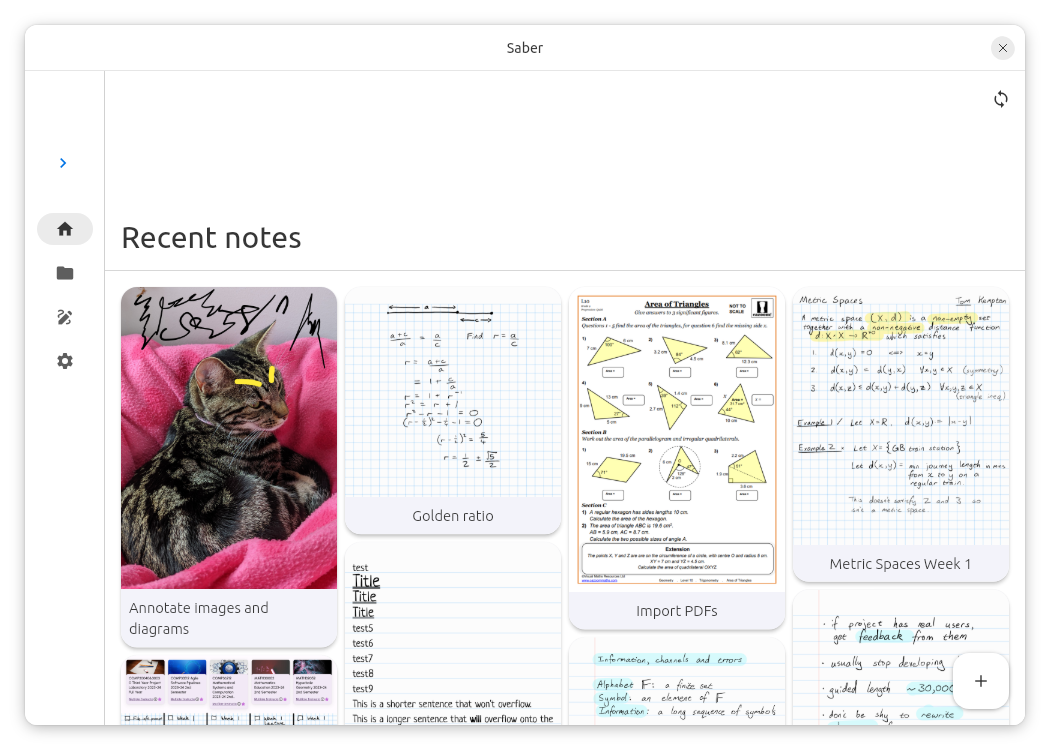
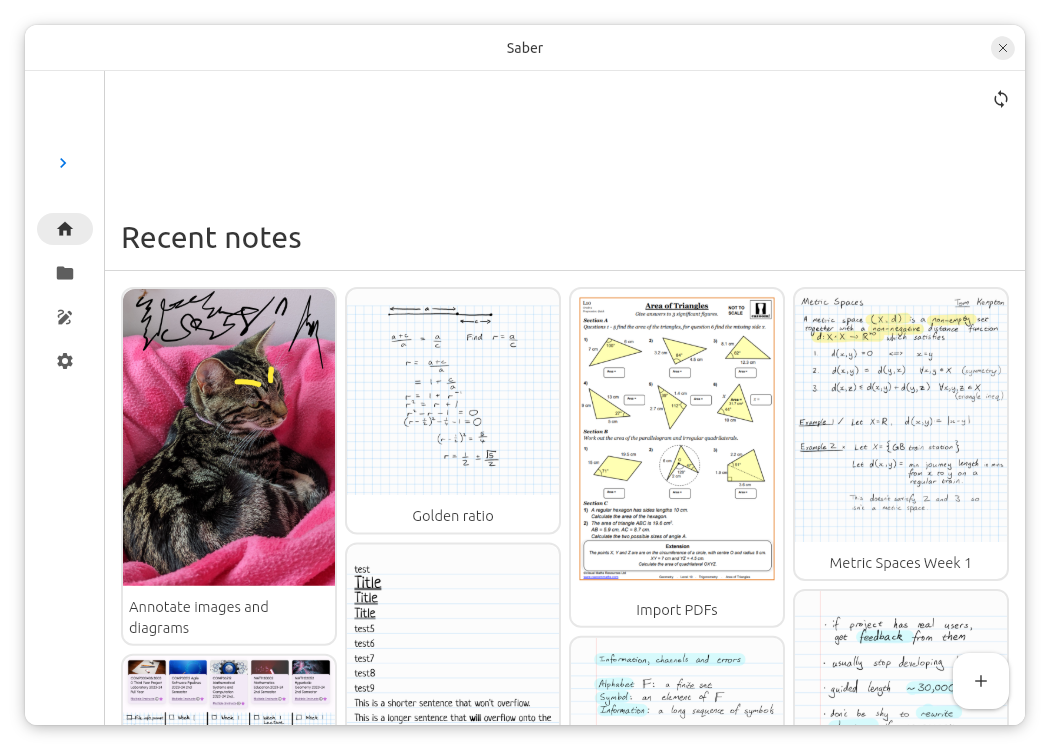
tweak: modernise note cards

diff --git a/lib/components/home/preview_card.dart b/lib/components/home/preview_card.dart
@@ -13,6 +13,7 @@ import 'package:saber/data/prefs.dart';
 import 'package:saber/data/routes.dart';
 import 'package:saber/i18n/strings.g.dart';
 import 'package:saber/pages/editor/editor.dart';
+import 'package:yaru/yaru.dart';
 
 class PreviewCard extends StatefulWidget {
   PreviewCard({
@@ -105,89 +106,85 @@ class _PreviewCardState extends State<PreviewCard> {
         onTap: widget.isAnythingSelected ? _toggleCardSelection : null,
         onSecondaryTap: _toggleCardSelection,
         onLongPress: _toggleCardSelection,
-        child: ColoredBox(
-          color: colorScheme.surfaceContainerLow,
-          child: Stack(
-            children: [
-              Column(
-                mainAxisSize: .min,
-                children: [
-                  Stack(
-                    children: [
-                      AnimatedBuilder(
-                        animation: thumbnail,
-                        builder: (context, _) => AnimatedSwitcher(
-                          duration: const Duration(milliseconds: 300),
-                          child: ConstrainedBox(
-                            key: ValueKey(thumbnail.updateCount),
-                            constraints: const BoxConstraints(minHeight: 100),
-                            child: InvertWidget(
-                              invert: invert,
-                              child: thumbnail.doesImageExist
-                                  ? Image(image: thumbnail.image!)
-                                  : const _FallbackThumbnail(),
-                            ),
+        child: Column(
+          mainAxisSize: .min,
+          children: [
+            Stack(
+              children: [
+                ListenableBuilder(
+                  listenable: thumbnail,
+                  builder: (context, _) => AnimatedSwitcher(
+                    duration: const Duration(milliseconds: 300),
+                    child: ConstrainedBox(
+                      key: ValueKey(thumbnail.updateCount),
+                      constraints: const BoxConstraints(minHeight: 100),
+                      child: Padding(
+                        padding: const EdgeInsets.all(kYaruFocusBorderWidth),
+                        child: ClipRRect(
+                          borderRadius: const .only(
+                            topLeft: .circular(kYaruContainerRadius),
+                            topRight: .circular(kYaruContainerRadius),
+                          ),
+                          child: InvertWidget(
+                            invert: invert,
+                            child: thumbnail.doesImageExist
+                                ? Image(image: thumbnail.image!)
+                                : const _FallbackThumbnail(),
                           ),
                         ),
-                      ),
-                      Positioned.fill(
-                        left: -1,
-                        top: -1,
-                        right: -1,
-                        bottom: -1,
-                        child: ValueListenableBuilder(
-                          valueListenable: expanded,
-                          builder: (context, expanded, child) =>
-                              AnimatedOpacity(
-                                opacity: expanded ? 1 : 0,
-                                duration: const Duration(milliseconds: 200),
-                                child: IgnorePointer(
-                                  ignoring: !expanded,
-                                  child: child!,
-                                ),
-                              ),
-                          child: GestureDetector(
-                            onTap: _toggleCardSelection,
-                            child: DecoratedBox(
-                              decoration: BoxDecoration(
-                                gradient: LinearGradient(
-                                  begin: .topCenter,
-                                  end: .bottomCenter,
-                                  colors: [
-                                    colorScheme.surface.withValues(alpha: 0.2),
-                                    colorScheme.surface.withValues(alpha: 0.8),
-                                    colorScheme.surface.withValues(alpha: 1),
-                                  ],
-                                ),
-                              ),
-                              child: ColoredBox(
-                                color: colorScheme.primary.withValues(
-                                  alpha: 0.05,
-                                ),
-                              ),
-                            ),
-                          ),
-                        ),
-                      ),
-                    ],
-                  ),
-                  Flexible(
-                    child: Padding(
-                      padding: const .all(8),
-                      child: Text(
-                        widget.filePath.substring(
-                          widget.filePath.lastIndexOf('/') + 1,
-                        ),
-                        maxLines: 2,
-                        overflow: .ellipsis,
                       ),
                     ),
                   ),
-                ],
+                ),
+                Positioned.fill(
+                  left: -1,
+                  top: -1,
+                  right: -1,
+                  bottom: -1,
+                  child: ValueListenableBuilder(
+                    valueListenable: expanded,
+                    builder: (context, expanded, child) => AnimatedOpacity(
+                      opacity: expanded ? 1 : 0,
+                      duration: const Duration(milliseconds: 200),
+                      child: IgnorePointer(ignoring: !expanded, child: child!),
+                    ),
+                    child: GestureDetector(
+                      onTap: _toggleCardSelection,
+                      child: DecoratedBox(
+                        decoration: BoxDecoration(
+                          gradient: LinearGradient(
+                            begin: .topCenter,
+                            end: .bottomCenter,
+                            colors: [
+                              colorScheme.surface.withValues(alpha: 0.2),
+                              colorScheme.surface.withValues(alpha: 0.8),
+                              colorScheme.surface.withValues(alpha: 1),
+                            ],
+                          ),
+                        ),
+                        child: ColoredBox(
+                          color: colorScheme.primary.withValues(alpha: 0.05),
+                        ),
+                      ),
+                    ),
+                  ),
+                ),
+                SyncIndicator(filePath: widget.filePath),
+              ],
+            ),
+            Flexible(
+              child: Padding(
+                padding: const .all(8),
+                child: Text(
+                  widget.filePath.substring(
+                    widget.filePath.lastIndexOf('/') + 1,
+                  ),
+                  maxLines: 2,
+                  overflow: .ellipsis,
+                ),
               ),
-              SyncIndicator(filePath: widget.filePath),
-            ],
-          ),
+            ),
+          ],
         ),
       ),
     );
@@ -196,9 +193,18 @@ class _PreviewCardState extends State<PreviewCard> {
       valueListenable: expanded,
       builder: (context, expanded, _) {
         return OpenContainer(
+          clipBehavior: Clip.none,
           closedColor: colorScheme.surface,
-          closedShape: RoundedRectangleBorder(borderRadius: .circular(16)),
-          closedElevation: expanded ? 4 : 1,
+          closedShape: RoundedRectangleBorder(
+            side: BorderSide(
+              color: expanded
+                  ? colorScheme.primary
+                  : colorScheme.onSurface.withValues(alpha: 0.12),
+              width: kYaruFocusBorderWidth,
+            ),
+            borderRadius: .circular(kYaruContainerRadius),
+          ),
+          closedElevation: 0,
           closedBuilder: (context, action) => card,
           openColor: colorScheme.surface,
           openBuilder: (context, action) => Editor(path: widget.filePath),

diff --git a/test/browse_page_test.dart b/test/browse_page_test.dart
@@ -1,6 +1,7 @@
 import 'package:flutter/material.dart';
 import 'package:flutter_test/flutter_test.dart';
 import 'package:golden_screenshot/golden_screenshot.dart';
+import 'package:saber/components/theming/saber_theme.dart';
 import 'package:saber/data/file_manager/file_manager.dart';
 import 'package:saber/data/flavor_config.dart';
 import 'package:saber/pages/home/browse.dart';
@@ -66,6 +67,11 @@ class _BrowseApp extends StatelessWidget {
     return ScreenshotApp.withConditionalTitlebar(
       device: GoldenSmallDevices.androidPhone.device,
       title: 'Saber',
+      theme: SaberTheme.createThemeFromSeed(
+        Colors.yellow,
+        Brightness.light,
+        TargetPlatform.android,
+      ),
       home: BrowsePage(path: path),
     );
   }

diff --git a/lib/components/theming/saber_theme.dart b/lib/components/theming/saber_theme.dart
@@ -33,6 +33,20 @@ abstract class SaberTheme {
         year2023: false,
         stopIndicatorColor: Colors.transparent,
       ),
+      cardColor: colorScheme.surface,
+      cardTheme: CardThemeData(
+        elevation: 0,
+        color: colorScheme.surface,
+        surfaceTintColor: Colors.transparent,
+        shadowColor: Colors.transparent,
+        shape: RoundedRectangleBorder(
+          borderRadius: .circular(kYaruContainerRadius),
+          side: BorderSide(
+            color: colorScheme.onSurface.withValues(alpha: 0.12),
+            width: 2,
+          ),
+        ),
+      ),
       cupertinoOverrideTheme: const NoDefaultCupertinoThemeData(
         applyThemeToAll: true,
       ),

diff --git a/lib/components/home/grid_folders.dart b/lib/components/home/grid_folders.dart
@@ -136,7 +136,6 @@ class _GridFolderState extends State<_GridFolder> {
             ? () => expanded.value = !expanded.value
             : null,
         child: Card(
-          color: colorScheme.surface,
           child: Padding(
             padding: const .all(8),
             child: Column(
